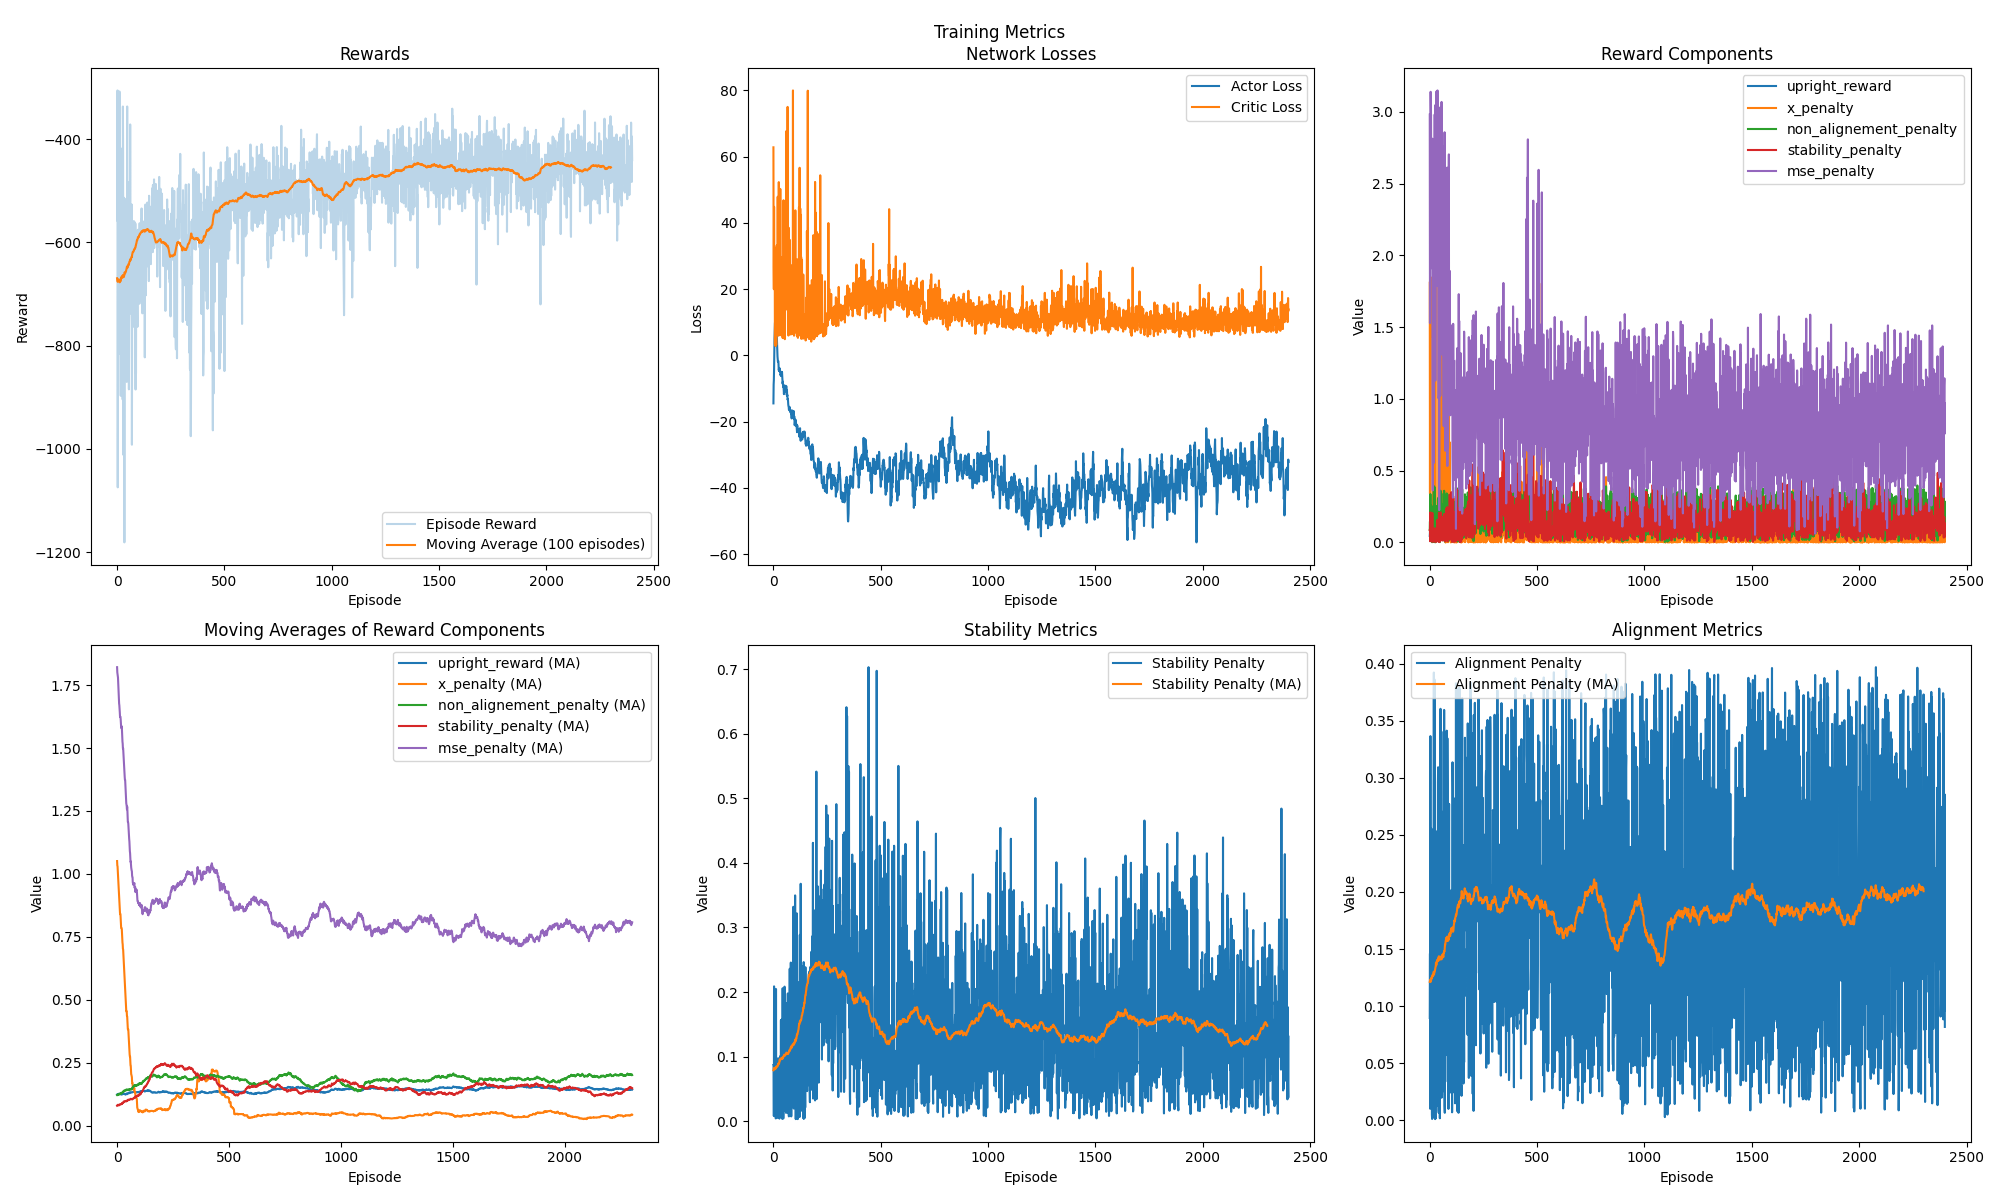
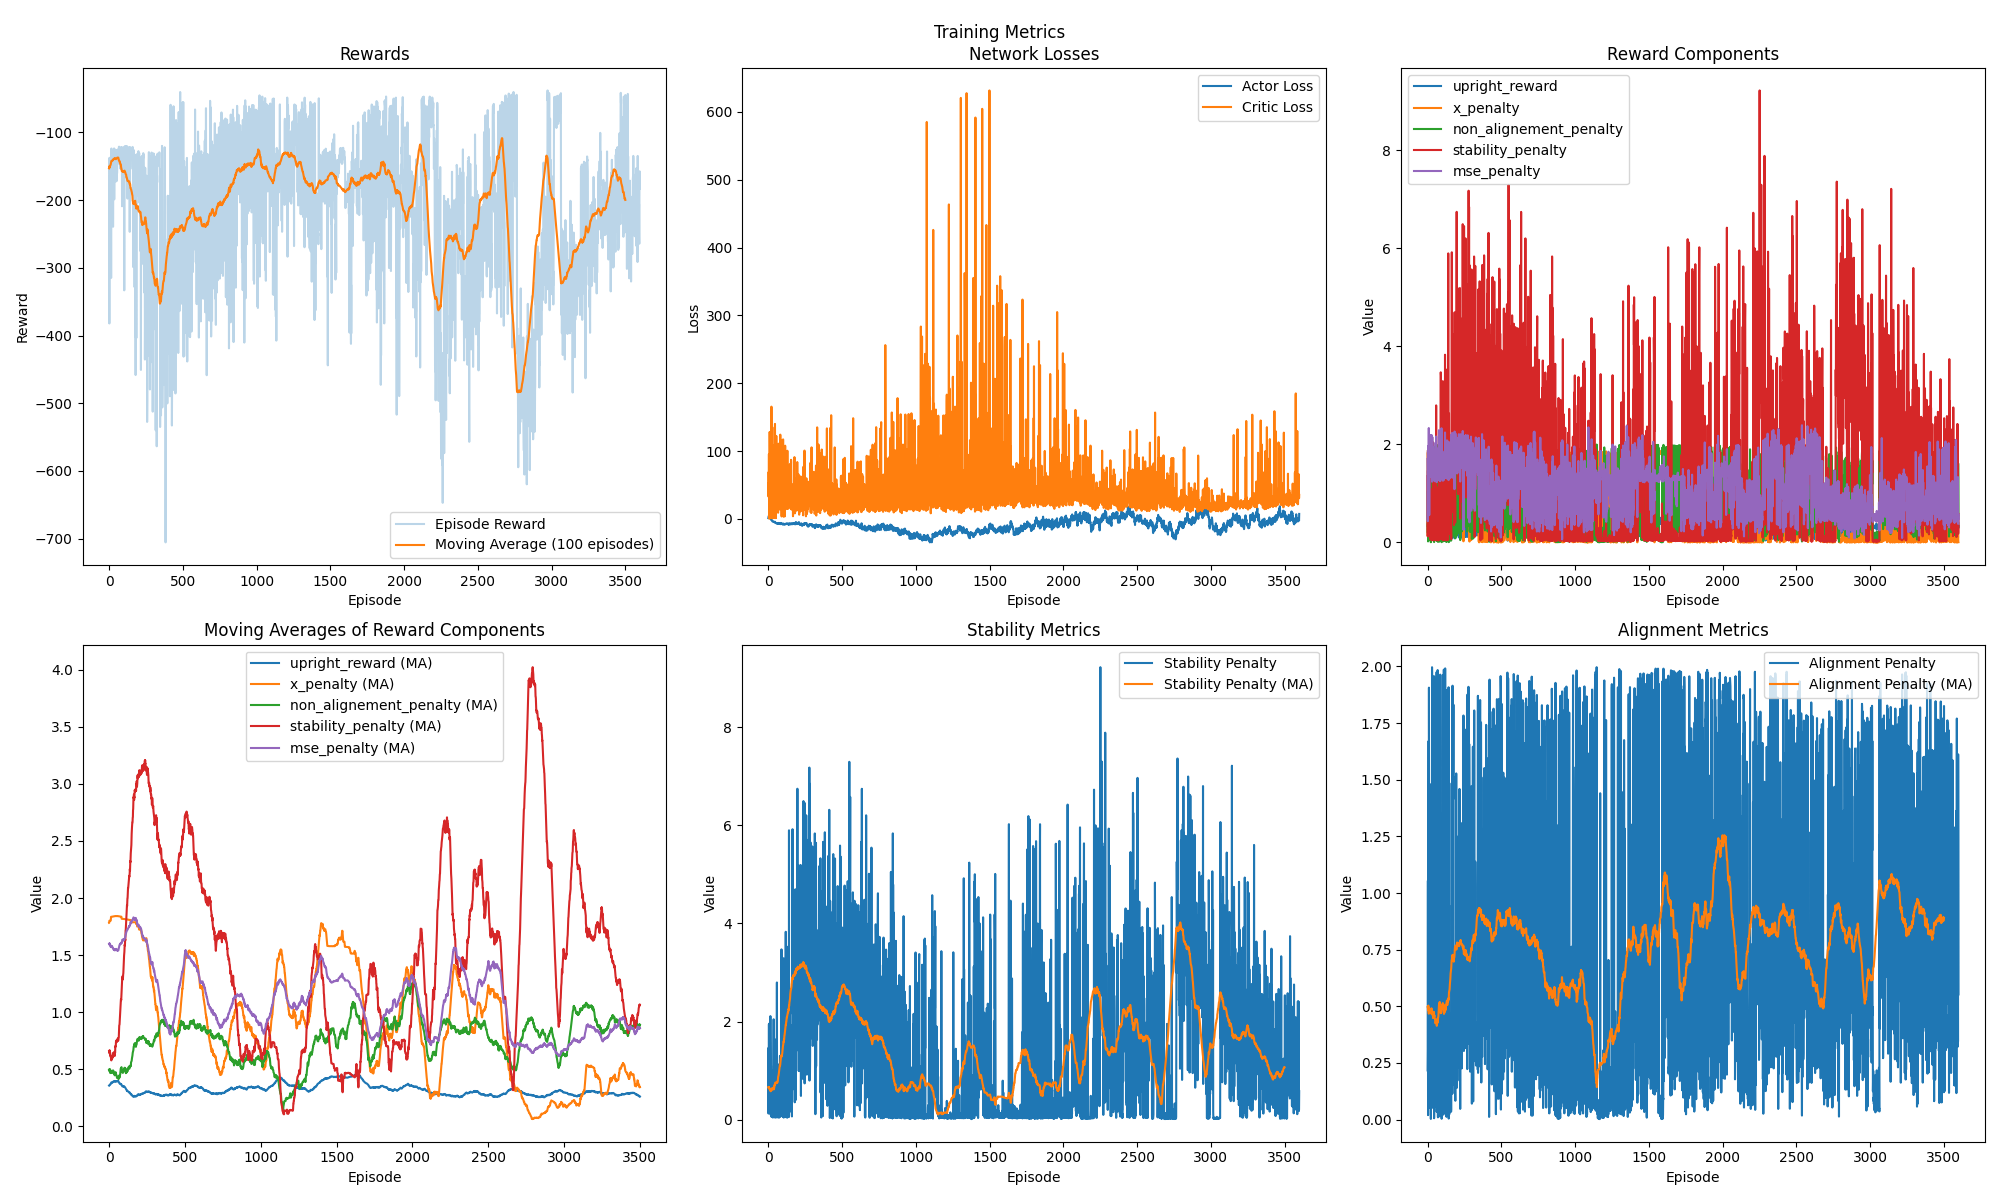
Refactor TriplePendulum environment to integrate MSE calculations for reward management, adjust gravity parameter for accuracy, and update state representation to include MSE sum. Modify RewardManager weights for better performance and update training script to reflect new state dimension. Update me

diff --git a/env.py b/env.py
@@ -5,7 +5,7 @@ import numpy as np
 from gym import spaces
 import pygame
 import math
-
+from reward import RewardManager
 class TriplePendulumEnv(gym.Env):
     """
     Custom Gym environment for controlling a cart holding a triple pendulum,
@@ -19,7 +19,7 @@ class TriplePendulumEnv(gym.Env):
         # -----------------------
         # Environment parameters
         # -----------------------
-        self.gravity = 1.0 # Gravity (9.81)
+        self.gravity = 0.01
         self.mass_cart = 1.0
         self.mass_pend1 = 0.1  # Mass of first pendulum
         self.mass_pend2 = 0.1  # Mass of second pendulum
@@ -439,10 +439,20 @@ class TriplePendulumEnv(gym.Env):
         normalized_consecutive_upright_steps = min(self.consecutive_upright_steps / 100, 1)
         is_long_upright = self.consecutive_upright_steps > 60
 
+        # MSE with aim position
+        reward_manager = RewardManager()
+        mse_sum = 0
+        for i in range(len(state)):
+            if i in [3, 6, 9]: # angles
+                mse_sum += np.sqrt((abs(state[i]) - reward_manager.aim_position_state[i]) ** 2)
+            elif i in [0, 12, 13, 14, 15, 16, 17, 18, 19] :
+                mse_sum += (state[i] - reward_manager.aim_position_state[i]) ** 2
+
         # Create model-ready state (only include necessary information)
         model_state = np.concatenate([
             processed_state[:12],  # Original 12 state variables
-            [pivot1_x, pivot1_y, end1_x, end1_y, end2_x, end2_y, end3_x, end3_y, close_to_left, close_to_right, normalized_consecutive_upright_steps, is_long_upright]  # Additional visual information
+            [pivot1_x, pivot1_y, end1_x, end1_y, end2_x, end2_y, end3_x, end3_y, close_to_left, close_to_right, normalized_consecutive_upright_steps, is_long_upright],  # Additional visual information 
+            [mse_sum]
         ])
 
         return model_state

diff --git a/reward.py b/reward.py
@@ -4,9 +4,9 @@ class RewardManager:
     def __init__(self):
         self.cart_position_weight = 0.20
         self.termination_penalty = 100.0
-        self.alignement_weight = 0.1
-        self.upright_weight = 0.15
-        self.stability_weight = 0.01  # Weight for the stability reward
+        self.alignement_weight = 0.5
+        self.upright_weight = 0.1
+        self.stability_weight = 0.1  # Weight for the stability reward
         self.mse_weight = 4.0  # Weight for the MSE penalty
         self.old_state = None
         self.length = 0.5  # Pendulum length
@@ -104,20 +104,21 @@ class RewardManager:
         for i in range(len(state)):
             if i in [3, 6, 9]: # angles
                 mse_sum += np.sqrt((abs(state[i]) - self.aim_position_state[i]) ** 2)
-            elif i in [0, 12, 13, 14, 15, 16, 17, 18, 19]: # positions
+            elif i in [0, 12, 13, 14, 15, 16, 17, 18, 19] :
                 mse_sum += (state[i] - self.aim_position_state[i]) ** 2
         
         mse_penalty = self.mse_weight * (mse_sum / len(state))
 
         # Penalties are negative, rewards are positive
         reward = upright_reward - x_penalty - non_alignement_penalty - stability_penalty - mse_penalty
+        reward /= 5
 
         # Apply termination penalty
         if terminated:
             reward -= self.termination_penalty
             
         return reward, upright_reward, x_penalty, non_alignement_penalty, stability_penalty, mse_penalty
-
+    
     def get_reward_components(self, state, current_step):
         reward, upright_reward, x_penalty, non_alignement_penalty, stability_penalty, mse_penalty = self.calculate_reward(state, False, current_step)
         return {

diff --git a/train.py b/train.py
@@ -34,7 +34,7 @@ class TriplePendulumTrainer:
         
         # Initialize models
         # Original state dimension is 12 (basic state) + 8 (visual information)
-        state_dim = 24
+        state_dim = 25
         action_dim = 1
         self.actor = TriplePendulumActor(state_dim, action_dim)
         self.critic = TriplePendulumCritic(state_dim, action_dim)
